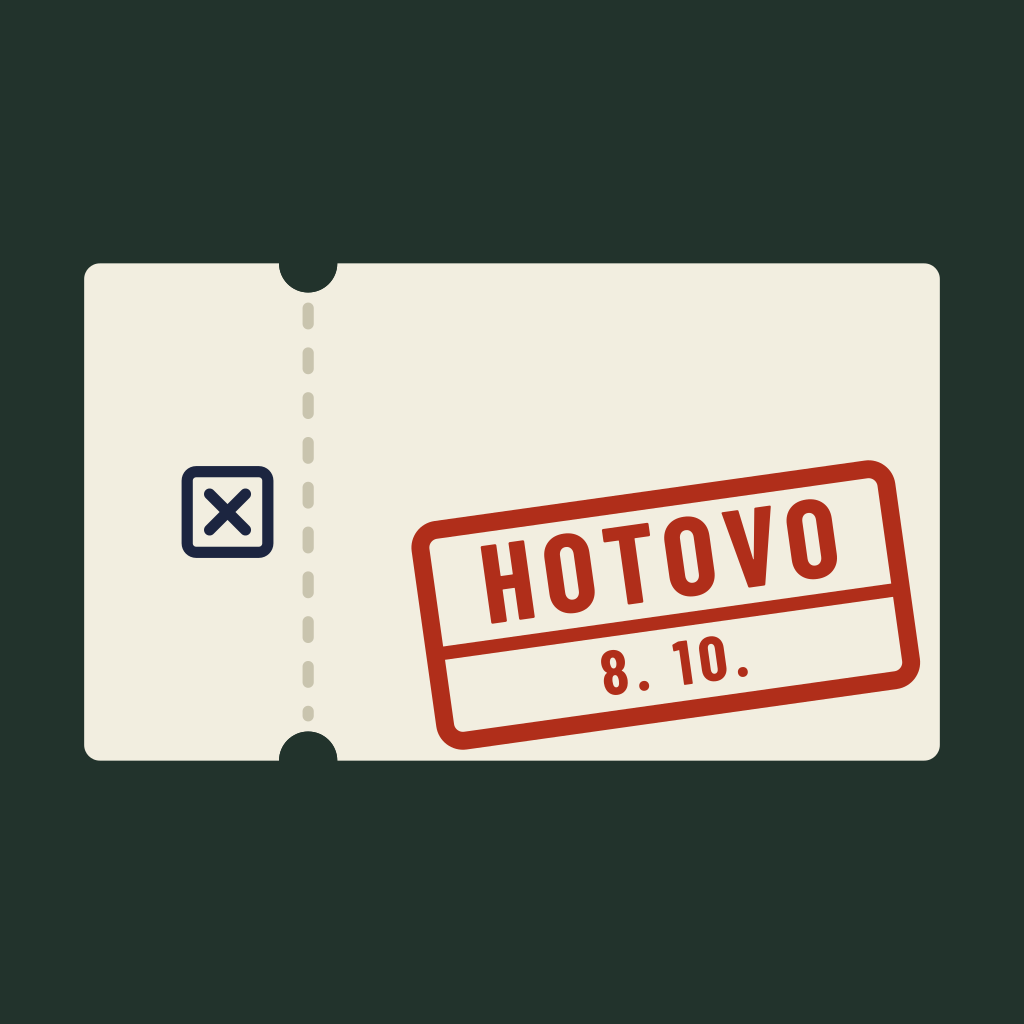
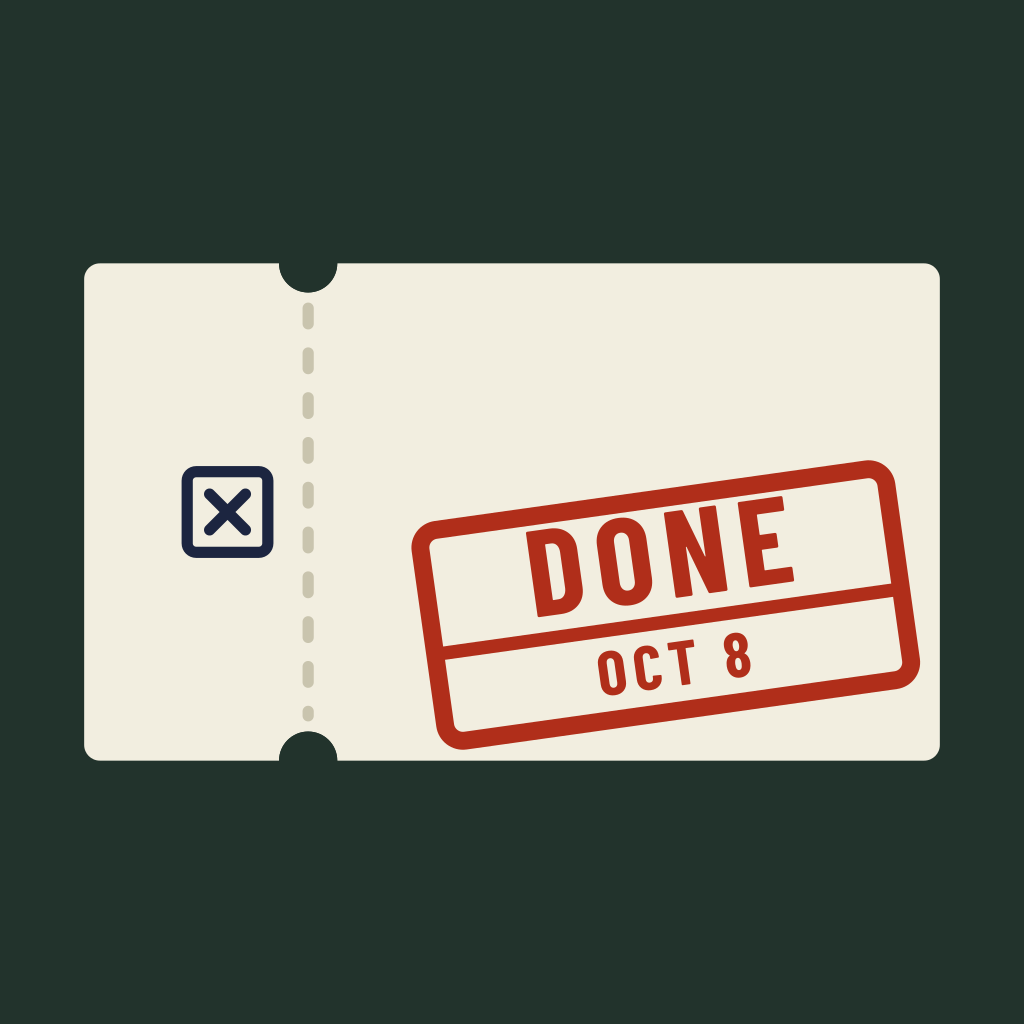
Switch the interface and README to English
The assignment does not ask for Czech, and English reads better in the
condensed headings. The app is now called Stamp, so the storage key
changed from razitko:v1 to stamp:v1. Nothing has shipped, so there is no
saved list to migrate.

The stamp text is DONE with a short month name, and the icon was redrawn
to match.

Changed region(s): [[0.4688, 0.4688, 0.8438, 0.6875]]

diff --git a/src/components/Composer.js b/src/components/Composer.js
@@ -6,7 +6,7 @@ import { reduceMotion } from '../motion';
 
 export const MAX_LENGTH = 100;
 const COUNTER_FROM = 80;
-const EMPTY_MESSAGE = 'Napiš, co je potřeba udělat.';
+const EMPTY_MESSAGE = 'Write what needs doing.';
 
 export default function Composer({ value, onChangeText, onAdd, inputRef, bottomInset }) {
   const [showError, setShowError] = useState(false);
@@ -37,7 +37,7 @@ export default function Composer({ value, onChangeText, onAdd, inputRef, bottomI
 
   return (
     <View style={[styles.strip, { paddingBottom: bottomInset }]}>
-      <Text style={styles.label} maxFontSizeMultiplier={1.3}>NOVÝ ÚKOL</Text>
+      <Text style={styles.label} maxFontSizeMultiplier={1.3}>NEW TASK</Text>
       <View style={styles.row}>
         <Animated.View style={[styles.inputWrap, { transform: [{ translateX: shake }] }]}>
           <TextInput
@@ -48,9 +48,9 @@ export default function Composer({ value, onChangeText, onAdd, inputRef, bottomI
             blurOnSubmit={false}
             returnKeyType="done"
             maxLength={MAX_LENGTH}
-            placeholder="Napiš úkol"
+            placeholder="Write a task"
             placeholderTextColor={colors.inkFaded}
-            accessibilityLabel="Nový úkol"
+            accessibilityLabel="New task"
             aria-invalid={showError}
             style={[styles.input, showError && styles.inputError]}
             maxFontSizeMultiplier={1.3}
@@ -59,8 +59,8 @@ export default function Composer({ value, onChangeText, onAdd, inputRef, bottomI
         <Pressable
           onPress={submit}
           accessibilityRole="button"
-          accessibilityLabel="Přidat úkol"
-          accessibilityHint={empty ? 'Nejdřív napiš text úkolu.' : undefined}
+          accessibilityLabel="Add task"
+          accessibilityHint={empty ? 'Write the task text first.' : undefined}
           style={({ pressed }) => [
             styles.button,
             empty ? styles.buttonIdle : styles.buttonReady,
@@ -68,7 +68,7 @@ export default function Composer({ value, onChangeText, onAdd, inputRef, bottomI
           ]}
         >
           <Text style={[styles.buttonText, empty && styles.buttonTextIdle]} maxFontSizeMultiplier={1.2}>
-            PŘIDAT
+            ADD
           </Text>
         </Pressable>
       </View>

diff --git a/src/components/Header.js b/src/components/Header.js
@@ -1,28 +1,28 @@
 import { StyleSheet, Text, View } from 'react-native';
 import { colors, fonts } from '../theme';
-import { dateLine } from '../czech';
+import { dateLine } from '../dates';
 
 export default function Header({ open, done }) {
   const total = open + done;
   return (
     <View style={styles.wrap}>
       <View style={styles.topRow}>
-        <Text style={styles.label} maxFontSizeMultiplier={1.3}>RAZÍTKO</Text>
+        <Text style={styles.label} maxFontSizeMultiplier={1.3}>STAMP</Text>
         <Text style={styles.date} maxFontSizeMultiplier={1.3}>{dateLine(new Date())}</Text>
       </View>
       <Text style={styles.title} maxFontSizeMultiplier={1.2} accessibilityRole="header">
-        ÚKOLY
+        TASKS
       </Text>
       <View style={styles.ruleThick} />
       <View style={styles.ruleThin} />
       {total > 0 && (
         <View style={styles.counts} accessibilityLiveRegion="polite">
           {open === 0 ? (
-            <Text style={styles.allDone} maxFontSizeMultiplier={1.3}>Vše orazítkováno.</Text>
+            <Text style={styles.allDone} maxFontSizeMultiplier={1.3}>All stamped.</Text>
           ) : (
-            <Count label="K udělání" value={open} />
+            <Count label="To do" value={open} />
           )}
-          <Count label="Hotovo" value={done} />
+          <Count label="Done" value={done} />
         </View>
       )}
     </View>

diff --git a/src/components/EmptyState.js b/src/components/EmptyState.js
@@ -1,21 +1,21 @@
 import { Pressable, StyleSheet, Text, View } from 'react-native';
 import { colors, fonts } from '../theme';
 
-const STARTERS = ['Vynést koš', 'Napsat domácí úkol', 'Zavolat babičce'];
+const STARTERS = ['Take out the trash', 'Do the homework', 'Call grandma'];
 
 export default function EmptyState({ onPick }) {
   return (
     <View style={styles.box}>
-      <Text style={styles.heading} maxFontSizeMultiplier={1.3}>Lístek je prázdný.</Text>
+      <Text style={styles.heading} maxFontSizeMultiplier={1.3}>Nothing on the slip.</Text>
       <Text style={styles.body} maxFontSizeMultiplier={1.3}>
-        Napiš první úkol do řádku dole, nebo začni jedním z těchto:
+        Write your first task in the line below, or start with one of these:
       </Text>
       {STARTERS.map((text) => (
         <Pressable
           key={text}
           onPress={() => onPick(text)}
           accessibilityRole="button"
-          accessibilityLabel={`Použít „${text}“`}
+          accessibilityLabel={`Use "${text}"`}
           style={({ pressed }) => [styles.starter, pressed && styles.starterPressed]}
         >
           <Text style={styles.starterText} maxFontSizeMultiplier={1.3}>+ {text}</Text>

diff --git a/src/components/Stamp.js b/src/components/Stamp.js
@@ -1,7 +1,7 @@
 import { useEffect, useRef } from 'react';
 import { Animated, Easing, StyleSheet, Text, View } from 'react-native';
 import { colors, fonts } from '../theme';
-import { dayMonth } from '../czech';
+import { dayMonth } from '../dates';
 import { reduceMotion } from '../motion';
 
 const DURATION = 170;
@@ -38,7 +38,7 @@ export default function Stamp({ id, doneAt, animate, onImpact }) {
         },
       ]}
     >
-      <Text style={styles.word} maxFontSizeMultiplier={1.2}>HOTOVO</Text>
+      <Text style={styles.word} maxFontSizeMultiplier={1.2}>DONE</Text>
       <View style={styles.line} />
       <Text style={styles.date} maxFontSizeMultiplier={1.2}>{dayMonth(new Date(doneAt))}</Text>
     </Animated.View>
@@ -56,12 +56,12 @@ const styles = StyleSheet.create({
   },
   word: {
     fontFamily: fonts.title,
-    fontSize: 22,
-    lineHeight: 24,
-    letterSpacing: 2.5,
+    fontSize: 24,
+    lineHeight: 26,
+    letterSpacing: 3,
     color: colors.stamp,
     textAlign: 'center',
-    paddingHorizontal: 8,
+    paddingHorizontal: 10,
     paddingTop: 2,
     borderWidth: 3,
     borderBottomWidth: 0,

diff --git a/App.js b/App.js
@@ -20,8 +20,8 @@ import { colors } from './src/theme';
 SplashScreen.preventAutoHideAsync();
 
 const STORAGE_ERRORS = {
-  load: 'Uložené úkoly se nepodařilo načíst. Začínáš s prázdným seznamem.',
-  save: 'Úkoly se nepodařilo uložit. Zkontroluj volné místo v telefonu.',
+  load: 'Saved tasks could not be loaded. Starting with an empty list.',
+  save: 'Tasks could not be saved. Check the free space on your phone.',
 };
 
 export default function App() {
@@ -87,8 +87,8 @@ function Screen() {
     dispatch({ type: 'remove', id: task.id });
     setToast({
       id: Date.now(),
-      message: 'Úkol smazán.',
-      action: 'VRÁTIT',
+      message: 'Task deleted.',
+      action: 'UNDO',
       onAction: () => {
         animateNextLayout();
         dispatch({ type: 'restore', task, index });

diff --git a/src/components/Slip.js b/src/components/Slip.js
@@ -52,14 +52,14 @@ export default function Slip({ task, onToggle, onDelete }) {
               </>
             )}
           </Svg>
-          <Text style={styles.serial} maxFontSizeMultiplier={1.2}>č. {String(task.id).padStart(2, '0')}</Text>
+          <Text style={styles.serial} maxFontSizeMultiplier={1.2}>No. {String(task.id).padStart(2, '0')}</Text>
         </View>
         <Text style={[styles.text, task.done && styles.textDone]}>{task.text}</Text>
       </Pressable>
       <Pressable
         onPress={remove}
         accessibilityRole="button"
-        accessibilityLabel={`Smazat úkol: ${task.text}`}
+        accessibilityLabel={`Delete task: ${task.text}`}
         style={({ pressed }) => [styles.remove, pressed && styles.hitPressed]}
       >
         <Svg width={24} height={24} viewBox="0 0 24 24">

diff --git a/src/dates.js b/src/dates.js
@@ -1,0 +1,10 @@
+const DAYS = ['Sun', 'Mon', 'Tue', 'Wed', 'Thu', 'Fri', 'Sat'];
+const MONTHS = ['Jan', 'Feb', 'Mar', 'Apr', 'May', 'Jun', 'Jul', 'Aug', 'Sep', 'Oct', 'Nov', 'Dec'];
+
+export function dayMonth(date) {
+  return `${MONTHS[date.getMonth()]} ${date.getDate()}`;
+}
+
+export function dateLine(date) {
+  return `${DAYS[date.getDay()]} ${dayMonth(date)} ${date.getFullYear()}`;
+}

diff --git a/src/storage.js b/src/storage.js
@@ -1,6 +1,6 @@
 import AsyncStorage from '@react-native-async-storage/async-storage';
 
-const KEY = 'razitko:v1';
+const KEY = 'stamp:v1';
 
 const isTask = (t) =>
   t !== null &&

diff --git a/README.md b/README.md
@@ -1,28 +1,28 @@
-# Razítko
+# Stamp
 
-Mobilní TODO aplikace v Expo (React Native). Úkoly jsou papírové lístky na zeleném psacím podkladu a hotový úkol se orazítkuje datem.
+A mobile TODO app built with Expo (React Native). Tasks are paper slips on a green desk, and a finished task gets a rubber stamp with the date.
 
-## Co umí
+## What it does
 
-- Přidat úkol. Prázdný text nebo samé mezery aplikace nepřijme a pod polem napíše proč.
-- Zobrazit seznam úkolů, nejnovější nahoře.
-- Označit úkol jako hotový klepnutím na lístek. Přibude razítko HOTOVO s dnešním datem. Dalším klepnutím se úkol vrátí.
-- Smazat úkol ikonou koše. Pět sekund je k dispozici tlačítko VRÁTIT.
-- Úkoly zůstávají uložené i po restartu aplikace (AsyncStorage).
+- Add a task. Empty or whitespace-only text is rejected, with the reason shown under the field.
+- List tasks, newest on top.
+- Mark a task done by tapping its slip. A DONE stamp with today's date appears. Tap again to undo.
+- Delete a task with the trash icon. An UNDO button stays for five seconds.
+- Tasks are saved on the device (AsyncStorage) and survive an app restart.
 
-## Spuštění
+## Run it
 
 ```
 npm install
 npx expo start
 ```
 
-Pak v aplikaci Expo Go naskenuj QR kód. Telefon a počítač musí být ve stejné síti.
+Scan the QR code with Expo Go. The phone and the computer must be on the same network.
 
-## Kde co je
+## Layout
 
-- `App.js`: obrazovka, seznam, přidávání a mazání
-- `src/useTasks.js`: stav úkolů a jeho ukládání
-- `src/storage.js`: čtení a zápis do AsyncStorage
-- `src/components/`: lístek, razítko, pole pro nový úkol, hlavička, hláška s tlačítkem VRÁTIT
-- `src/theme.js`: barvy a písma (Barlow Condensed a Courier Prime, oba pokrývají češtinu)
+- `App.js`: screen, list, adding and deleting
+- `src/useTasks.js`: task state and saving
+- `src/storage.js`: reading and writing AsyncStorage
+- `src/components/`: slip, stamp, new task field, header, undo toast
+- `src/theme.js`: colors and fonts (Barlow Condensed and Courier Prime)
